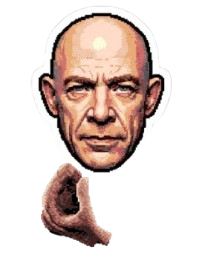
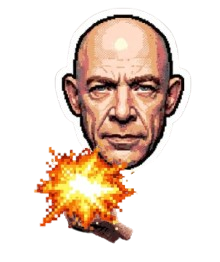
added fire

diff --git a/pianocodex/src/App.jsx b/pianocodex/src/App.jsx
@@ -525,8 +525,7 @@ function App() {
     setEarConductorState('wrong')
 
     scheduleEarTimeout(() => setEarConductorState('reload'), 2300)
-    scheduleEarTimeout(() => setEarConductorState('spin'), 3900)
-    scheduleEarTimeout(() => setEarConductorState('aim'), 5500)
+    scheduleEarTimeout(() => setEarConductorState('aim'), 3900)
     scheduleEarTimeout(() => {
       const fireChance = clamp((state.bulletsLoaded / 6) * 0.82, 0, 0.99)
       const fire = Math.random() < fireChance
@@ -546,7 +545,7 @@ function App() {
         setEarConductorState('idle')
         scheduleEarTimeout(() => startEarRound(state), 4000)
       }
-    }, 7100)
+    }, 5500)
   }
 
   const earGameLoop = (nowMs) => {
